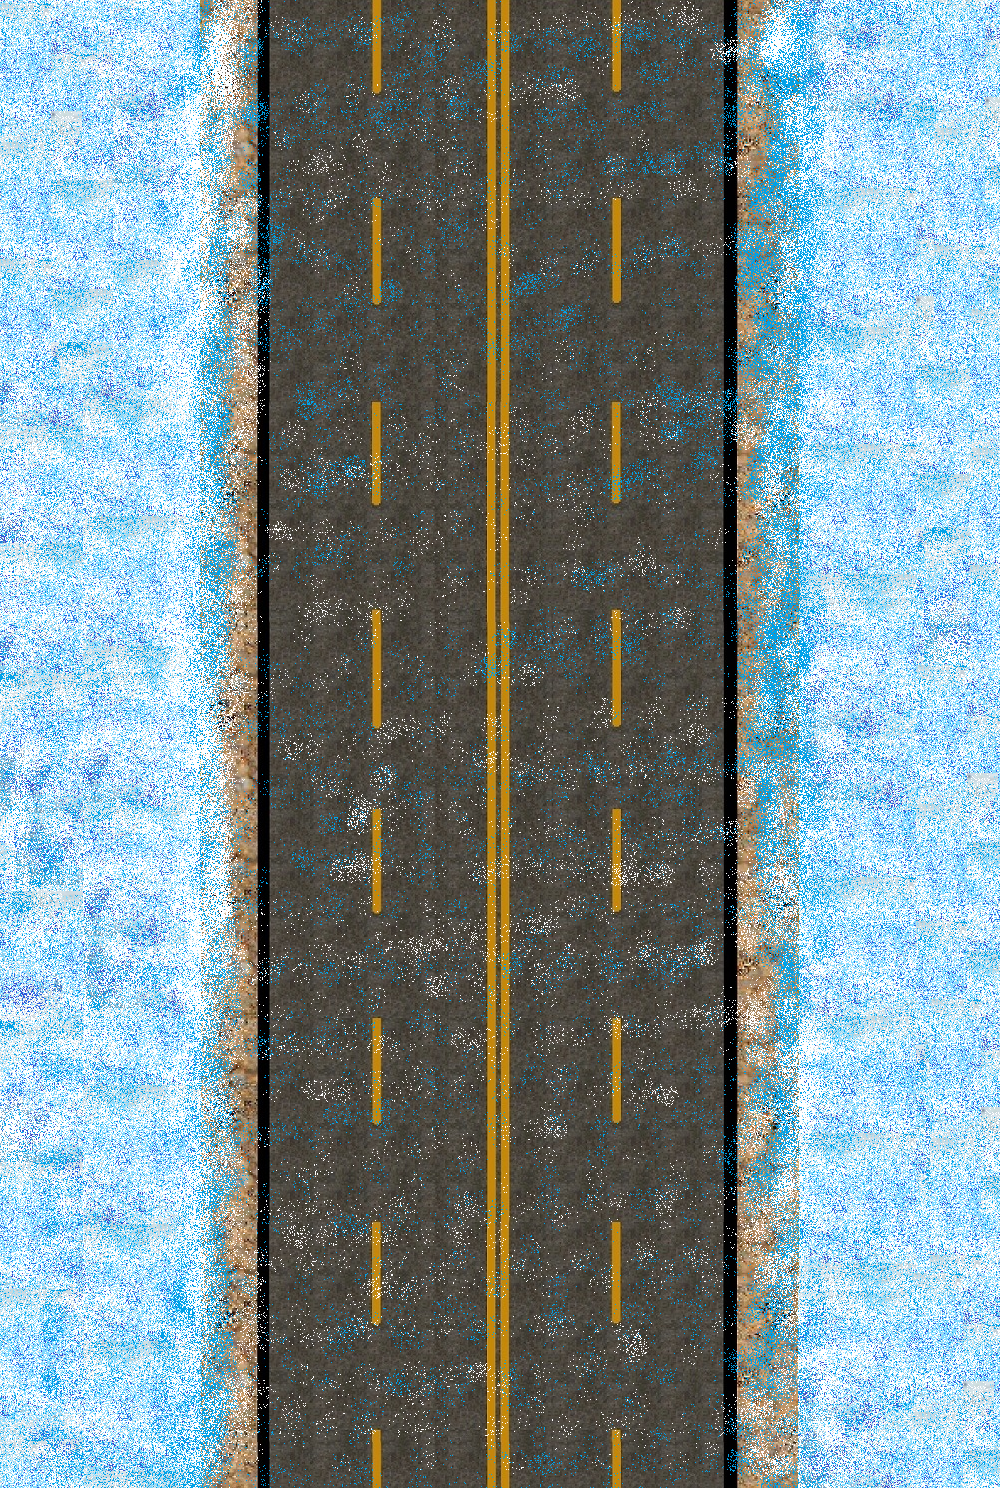
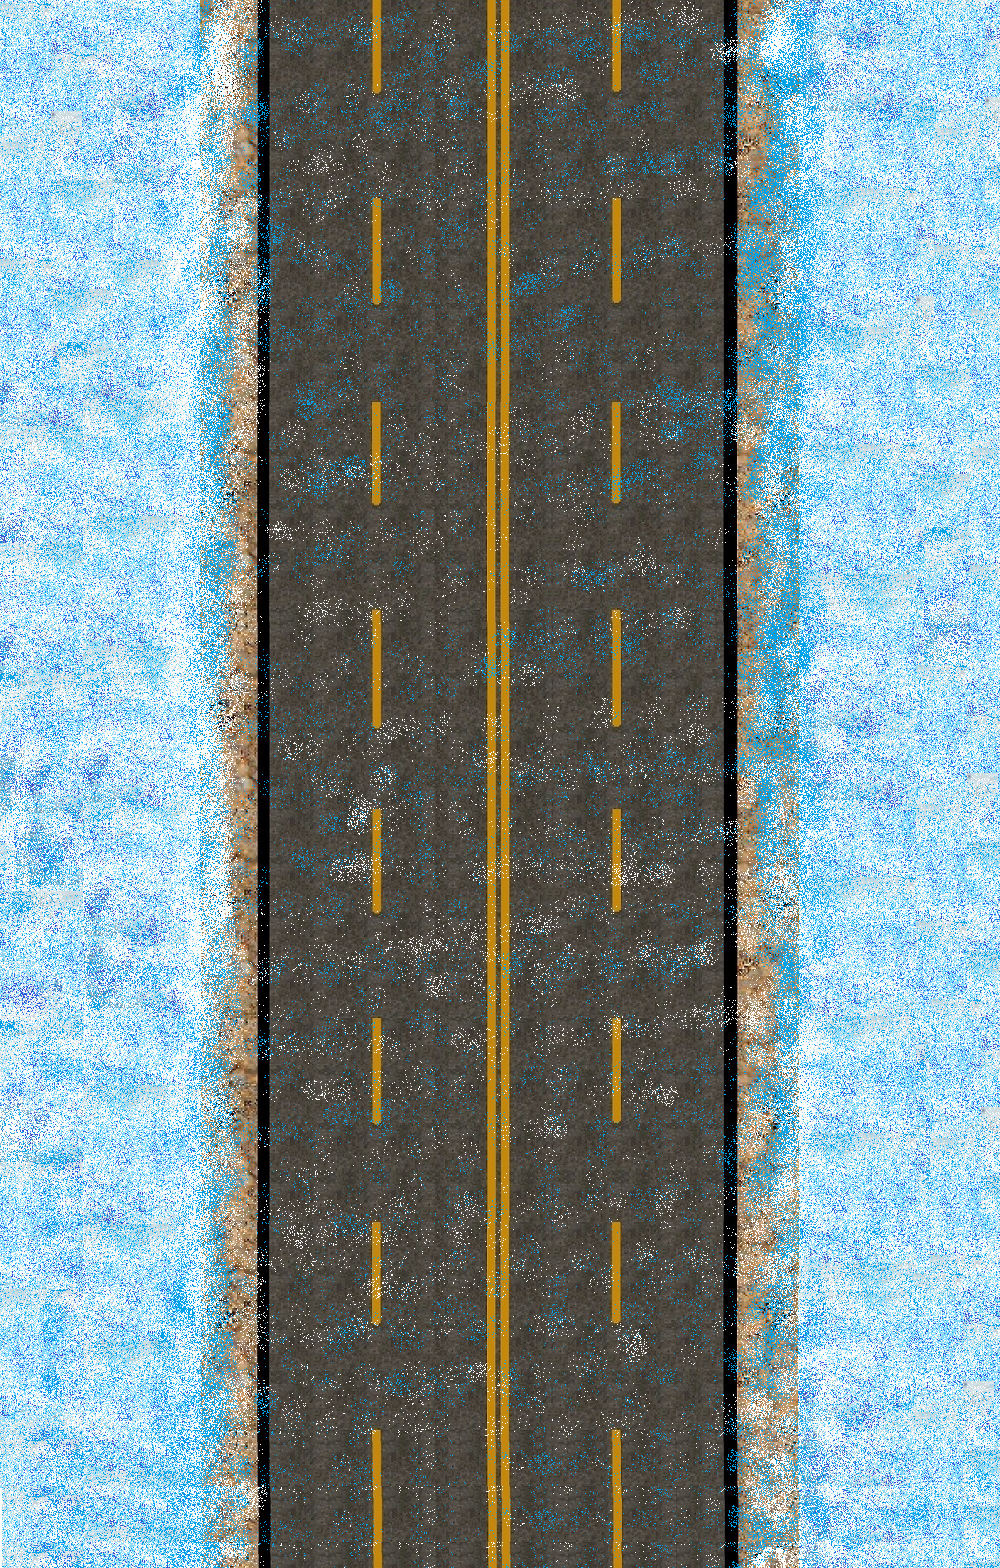
change roads size

diff --git a/roadCarnage/src/gameObjects/Road.java b/roadCarnage/src/gameObjects/Road.java
@@ -13,7 +13,7 @@ public class Road extends GameObject {
     public static final float Y = 0;
     public static final float HEIGHT = 700;
 
-    public static final String PATH = "res\\roadSkins\\desert" + ".png";
+    public static final String PATH = "res\\roadSkins\\cityRoad" + ".png";
 
     public static final float ROUGH_ROAD_WIDTH = 56;
     public static final float BLACK_LINE_WIDTH = 13;
